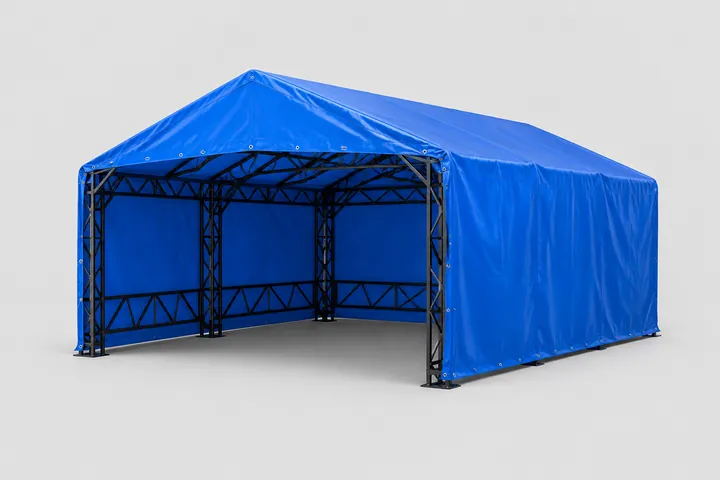
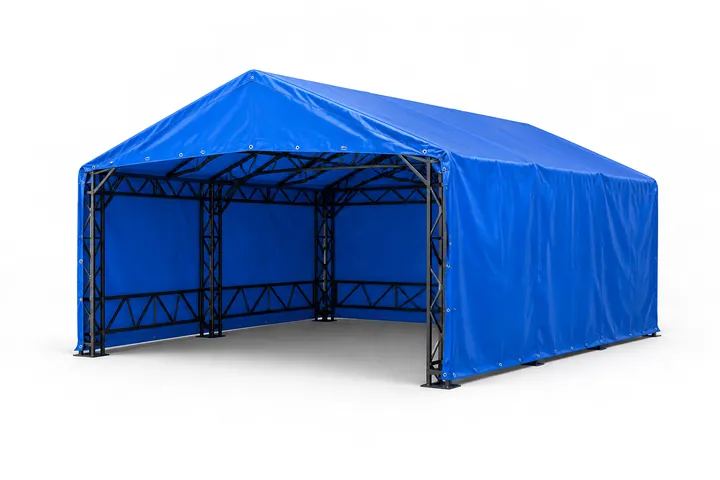
Иконки на белом фоне, карточки обогрева белые

diff --git a/index.html b/index.html
@@ -1,4 +1,4 @@
-<!doctype html><html lang="ru"><head><meta charset="utf-8"><meta name="robots" content="noindex,nofollow"><meta name="viewport" content="width=device-width,initial-scale=1"><title>Тепляк строительный — превью</title><link rel="stylesheet" href="css/base.css?v=6af70472"><link rel="stylesheet" href="css/blocks.css?v=6af70472"><link rel="stylesheet" href="css/teplyak.css?v=6af70b1d"><link rel="stylesheet" href="css/_preview-only.css?v=6af70472"></head><body>
+<!doctype html><html lang="ru"><head><meta charset="utf-8"><meta name="robots" content="noindex,nofollow"><meta name="viewport" content="width=device-width,initial-scale=1"><title>Тепляк строительный — превью</title><link rel="stylesheet" href="css/base.css?v=6af70472"><link rel="stylesheet" href="css/blocks.css?v=6af70472"><link rel="stylesheet" href="css/teplyak.css?v=6afae5d0"><link rel="stylesheet" href="css/_preview-only.css?v=6af70472"></head><body>
 <div class="tpl-root">
 
 <div class="tpl-top">

diff --git a/css/teplyak.css b/css/teplyak.css
@@ -357,7 +357,7 @@
 .tpl-heat{display:grid;grid-template-columns:repeat(4,1fr);gap:var(--tpl-grid-gap);margin-top:40px}
 .tpl-root .tpl-heat__item{
   display:flex;flex-direction:column;border-radius:var(--tpl-radius-lg);overflow:hidden;
-  background:#E6E6E6;color:var(--tpl-ink);transition:transform .2s ease;
+  border:var(--tpl-border);background:var(--tpl-surface-card);color:var(--tpl-ink);transition:transform .2s ease;
 }
 .tpl-root .tpl-heat__item img{width:100%;height:auto;aspect-ratio:3/2;object-fit:cover}
 .tpl-heat__item b{padding:0 18px;font-size:16px;line-height:22px;font-weight:var(--tpl-fw-medium)}
